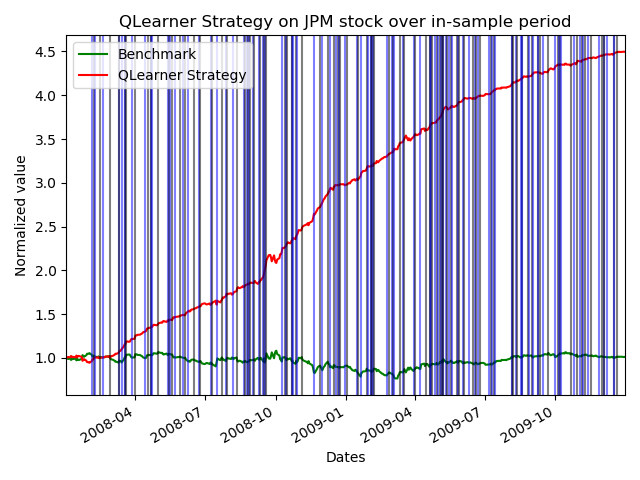
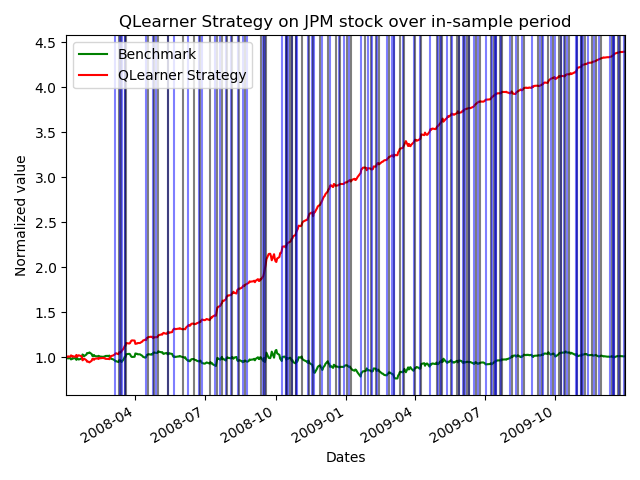
changed window periods

diff --git a/StrategyLearner.py b/StrategyLearner.py
@@ -63,7 +63,7 @@ class StrategyLearner(object):
 
         # Seed for charts
         if seed:
-            np.random.seed(903430342)
+            np.random.seed(2342)
 
     def author(self):
         return "nwatt3"
@@ -131,6 +131,7 @@ class StrategyLearner(object):
         discretized_indicators["boll_bandr"] = boll_bandr_ind.values
         discretized_indicators["simple_moving_averager"] = simple_moving_averager_ind.values
         discretized_indicators["mapping"] = stdev_divergence_ind.astype(str) + boll_bandr_ind.astype(str) + simple_moving_averager_ind.astype(str)
+        #discretized_indicators["mapping"] = stdev_divergence_ind.astype(str) + boll_bandr_ind.astype(str) #+ simple_moving_averager_ind.astype(str)
         discretized_indicators["state"] = discretized_indicators["mapping"].astype(np.int)
         states = discretized_indicators["state"]
 
@@ -226,7 +227,8 @@ class StrategyLearner(object):
         discretized_indicators["stdev_divergence"] = stdev_divergence_ind.values
         discretized_indicators["boll_bandr"] = boll_bandr_ind.values
         discretized_indicators["simple_moving_averager"] = simple_moving_averager_ind.values
-        discretized_indicators["mapping"] = stdev_divergence_ind.astype(str) + boll_bandr_ind.astype(str) + simple_moving_averager_ind.astype(str)
+        discretized_indicators["mapping"] =  stdev_divergence_ind.astype(str) + boll_bandr_ind.astype(str) + simple_moving_averager_ind.astype(str)
+       # discretized_indicators["mapping"] = stdev_divergence_ind.astype(str) + boll_bandr_ind.astype(str) + simple_moving_averager_ind.astype(str)
         discretized_indicators["state"] = discretized_indicators["mapping"].astype(np.int)
         states = discretized_indicators["state"]
 

diff --git a/indicators.py b/indicators.py
@@ -39,7 +39,7 @@ def average_daily_ret(port_val):
 #indicators (SMA, standard dev, bollinger band)
 
 
-def get_stdev(prices, window=20, window_mean=40):
+def get_stdev(prices, window=20, window_mean=50):
     stdev=prices.rolling(window=window, min_periods=window).std()
     sd_signal=prices.rolling(window=window_mean, min_periods=window_mean).std()
     stdev_divergence=stdev - sd_signal
@@ -54,11 +54,11 @@ def get_daily_returns(prices):
 
 
 
-def get_simple_moving_average(prices, window=20):
+def get_simple_moving_average(prices, window=30):
     return prices.rolling(window=window, min_periods=window).mean()
 
 
-def get_simple_moving_average_ratio(prices, window=20):
+def get_simple_moving_average_ratio(prices, window=30):
     return prices / prices.rolling(window=window, min_periods=window).mean()
 
 
